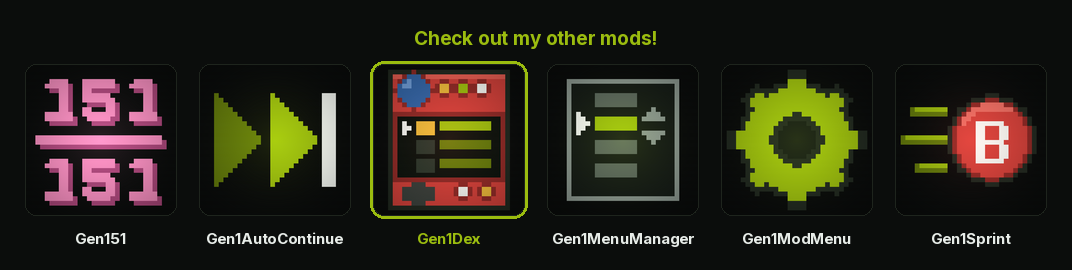
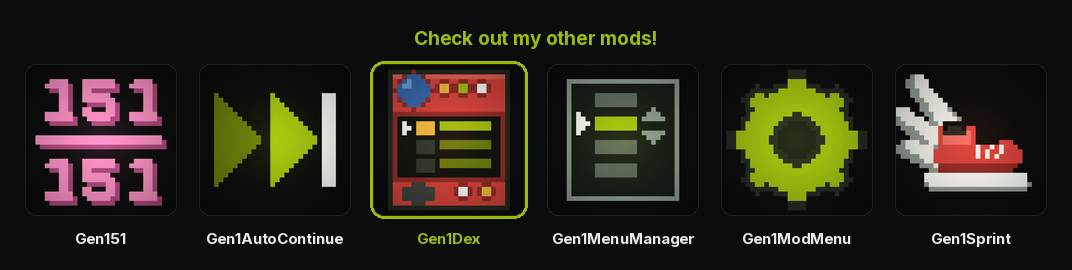
Gen1Sprint: a winged shoe, and the page furniture to match
The icon is now Hermes' talaria in the running shoes' own red, replacing
the B button. It is blocked out of a body, a collar and a round toe
rather than traced as one outline: a shoe in profile is a silhouette
problem, and an outline drawn at 32 pixels loses its toe to the scanline
fill, tapering to a sliver a pixel or two tall.

The feathers are quads with blunt, rounded tips rather than triangles,
and each is rooted separately. A triangle ends in a single pixel and
three of them fanned out read as scratches; a shared root makes them one
white mass for the first third of their length, which is a splash rather
than a wing. Checked at 54 pixels, which is the size the README table
shows an icon at, not just at 512.

LETTER_B goes with it. It was added for the B button and nothing draws it
now, and an unused glyph is exactly the dead weight the note above DIGITS
says the alphabet would be.

Also the furniture that had gone stale around the thirteenth entry:

  * og:image:width said 2116. The strip is 2290 wide with Gen1Sprint on
    the end, and an unfurl sized against the old number renders wrong.
  * og:image:alt and the README's wordmark line still counted twelve.

site/data/index.json stays out of this commit, as before: it is built and
committed by .github/workflows/index.yml with a token, and a rebuild from
here answers 403 on every other mod's Releases.

Claude-Session: https://claude.ai/code/session_01GSk6gGC43zca2TtZXkUrDf

Changed region(s): [[0.8312, 0.2667, 0.9851, 0.7111]]

diff --git a/site/index.html b/site/index.html
@@ -18,9 +18,9 @@
 <meta property="og:description" content="MODS > FIND MODS, add wild1walker/Gen1Wild. Updates land on the cards on their own.">
 <meta property="og:url" content="https://wild1walker.github.io/Gen1Wild/">
 <meta property="og:image" content="https://wild1walker.github.io/Gen1Wild/banners/lineup.png">
-<meta property="og:image:width" content="2116">
+<meta property="og:image:width" content="2290">
 <meta property="og:image:height" content="231">
-<meta property="og:image:alt" content="Gen151, Gen1Arena, Gen1AutoContinue, Gen1AutoSave, Gen1BillsBox, Gen1Dex, Gen1Follower, Gen1MenuManager, Gen1ModMenu, Gen1ModernBag, Gen1Party and Gen1SoundQOL">
+<meta property="og:image:alt" content="Gen151, Gen1Arena, Gen1AutoContinue, Gen1AutoSave, Gen1BillsBox, Gen1Dex, Gen1Follower, Gen1MenuManager, Gen1ModMenu, Gen1ModernBag, Gen1Party, Gen1SoundQOL and Gen1Sprint">
 <meta name="twitter:card" content="summary_large_image">
 
 <style>

diff --git a/tools/make_icons.py b/tools/make_icons.py
@@ -163,22 +163,6 @@ def numerals(art, x, y, text, colour, shadow):
 # set of ten would be nine glyphs of dead weight and one more thing to keep
 # in step with nothing.
 DIGIT_GAP = 2
-
-# The one letter any icon draws, on the same seven-by-nine metric DIGITS uses
-# so the two stay in proportion if they ever share a picture.  A full alphabet
-# would be twenty-five glyphs of dead weight.
-LETTER_B = [
-    "######.",
-    "##...##",
-    "##...##",
-    "##...##",
-    "######.",
-    "##...##",
-    "##...##",
-    "##...##",
-    "######.",
-]
-
 DIGITS = {
     "1": [
         "..####.",
@@ -634,35 +618,80 @@ def gen151():
 
 
 def sprint():
-    """The B button, and the ground going past it.
+    """A winged shoe: Hermes' talaria, in the running shoes' own red.
 
-    A running figure is the obvious drawing and the wrong one: at 32 pixels a
-    person is six pixels of leg, and six pixels of leg reads as a smudge no
-    matter how they are posed.  The button does not have that problem -- it is
-    a circle with a letter in it, which is legible at any size -- and it says
-    the thing the mod actually asks of you, which is to hold B.  The streaks
-    behind it carry the speed instead, and they are what a Game Boy would have
-    used too.
+    Blocked out of a body, a collar and a round toe rather than traced as
+    one outline.  A shoe in profile is mostly a silhouette problem, and an
+    outline drawn at 32 pixels loses its toe to the scanline fill -- the
+    front tapers to a sliver a pixel or two tall and stops reading as a
+    shoe at all.  Blocking keeps the toe box the height it needs, and the
+    sole is left to say which way is down.
+
+    The feathers are quads with blunt, rounded tips, not triangles.  A
+    triangle ends in a single pixel, and three of them fanned out read as
+    scratches on the picture rather than as a wing.  They are laid down
+    before the shoe and rooted behind the heel, so the wing emerges from
+    something instead of being parked next to it, and they sweep back
+    rather than over the toe -- which is how a wing is drawn on something
+    already moving.
     """
     a = Art()
 
-    # Three streaks, longest through the middle, each on a darker under-edge
-    # so it has a leading edge against the near-black ground rather than
-    # floating on it.  They stop short of the button: a streak that touches
-    # the rim ties the two shapes into one blob.
-    for x0, y in ((3, 9), (1, 15), (4, 21)):
-        a.rect(x0, y, 10, y + 1, GREEN_D)
-        a.rect(x0 + 1, y, 10, y, GREEN)
+    BONE  = (0xe9, 0xec, 0xe4)
+    QUILL = (0x8d, 0x97, 0x8f)
+    SOLE  = (0xf2, 0xf5, 0xf0)
+    DARK  = (0x8f, 0x2a, 0x26)
+    LIT   = (0xe8, 0x6d, 0x62)
 
-    # The button: an ink rim, a red face, and the glyph knocked into it.  The
-    # rim is a whole pixel wider than the face on purpose -- a red disc laid
-    # straight onto the ground has no edge, and the rim is what gives it one.
-    a.disc(20.5, 16, 9.6, INK)
-    a.disc(20.5, 16, 8.6, (0x8f, 0x2a, 0x26))
-    a.disc(20.5, 16, 7.8, RED)
-    a.arc(20.5, 16, 6.4, 7.8, 55, 155, (0xe8, 0x6d, 0x62))   # a lit top-left
+    # ------- the wing, laid down first so the shoe owns the overlap
 
-    stamp(a, 17, 12, LETTER_B, {"#": WHITE})
+    def feather(bx, by, tx, ty, wb, wt, c):
+        dx, dy = tx - bx, ty - by
+        n = math.hypot(dx, dy)
+        nx, ny = -dy / n, dx / n
+        a.poly([(bx + nx * wb, by + ny * wb), (tx + nx * wt, ty + ny * wt),
+                (tx - nx * wt, ty - ny * wt), (bx - nx * wb, by - ny * wb)], c)
+        a.disc(tx, ty, wt, c)                      # the blunt tip
+
+    # Each feather gets its own root rather than all three sharing one: a
+    # common root makes them one white mass for the first third of their
+    # length, and a wing that has lost its feathers is a splash.  Drawn
+    # back to front, each laying its own darker edge over the one behind,
+    # which is what keeps them apart where they do overlap.
+    for (bx, by), (tx, ty) in (((14.5, 17.0), (5.0, 3.5)),
+                               ((13.5, 19.5), (1.5, 10.0)),
+                               ((12.5, 21.5), (3.0, 17.0))):
+        feather(bx, by, tx - .8, ty + .8, 3.2, 2.0, QUILL)
+        feather(bx, by, tx, ty, 2.3, 1.2, BONE)
+
+    # ------- the shoe, blocked out
+
+    a.rect(9, 17, 24, 22, RED)                    # the body
+    a.disc(23.5, 19.5, 3.2, RED)                  # a round toe box
+    a.disc(11.0, 19.5, 3.0, RED)                  # and a round heel
+    a.rect(9, 13, 16, 18, RED)                    # the ankle collar over both
+
+    a.rect(9, 21, 23, 22, DARK)                   # the upper darkens into
+    a.disc(23.5, 19.5, 3.2, DARK, rows=(21, 22))  # the sole, toe kept round
+
+    a.rect(10, 14, 15, 16, LIT)                   # light off the collar
+    a.ellipse(12.5, 13.6, 3.0, 1.7, BG)           # the opening, cut into it
+    a.ellipse(12.5, 14.2, 2.2, 1.1, INK)
+
+    # Three laces across the instep.  Two read as a mistake and four turn the
+    # vamp into a grille, so three it is.
+    for x in (17.4, 19.6, 21.8):
+        a.poly([(x, 17.5), (x + 1.0, 17.5), (x + .3, 20.3), (x - .7, 20.3)],
+               BONE)
+
+    # ------- the sole, the one horizontal that says which way is down
+
+    a.rect(7, 23, 27, 25, SOLE)
+    a.disc(7.4, 24.0, 1.5, SOLE)
+    a.disc(26.6, 24.0, 1.5, SOLE)
+    a.rect(7, 26, 27, 26, QUILL)
+    a.px(6, 25, QUILL); a.px(28, 25, QUILL)
+
     return a, RED
 
 

diff --git a/README.md b/README.md
@@ -169,7 +169,7 @@ Opt out with `"automatic_version_check": false` and give the entry its own
 
 The wordmark at the top of this file is hand-made, and it is the whole
 family's -- every mod repo carries the same file at `docs/banner.png` and
-leads with it, under its own name. One mark, twelve repos: a reader who has
+leads with it, under its own name. One mark, thirteen repos: a reader who has
 seen one of these mods recognises the next one on sight, which is the entire
 job a mark has.
 
